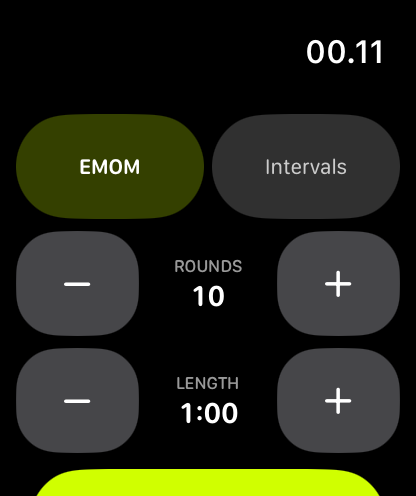
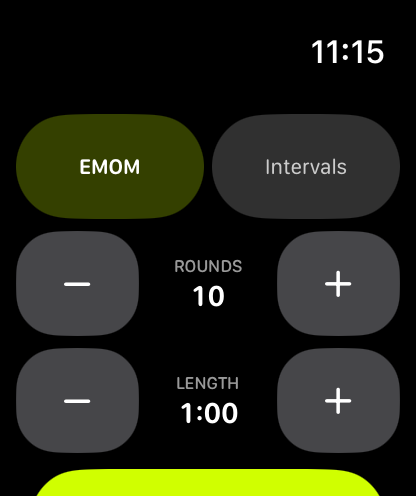
Bump to 1.7 (build 18) and finish the localized screenshot set
Danish and Spanish had iPhone screenshots only. The iOS app record also
covers iPad and Apple Watch, so a localized listing needed those two in
both languages as well. Mac and Apple TV are separate app records and
stay English.

Recapturing turned up a defect in the English set: the iPad status bar
showed "09.41 fre. 7. aug." on the en-US screenshot. The status bar
renders its date from the simulator's system locale, which was Danish,
and launching the app with -AppleLanguages does not change that. All
three iPad shots are recaptured with the system locale set to match.
The English Watch shot had the same problem in its clock format and is
recaptured too; simctl status_bar is unsupported on watchOS, so the
Watch clocks differ between languages and cannot be pinned.

Changed region(s): [[0.7188, 0.0605, 0.9375, 0.1512]]

diff --git a/docs/APP_STORE_CONNECT.md b/docs/APP_STORE_CONNECT.md
@@ -155,11 +155,15 @@ Current sizes (Apple retired the old 5.5"/6.5" slots as the primary requirement)
 | Apple TV | 1920 × 1080 (or 3840 × 2160) | Yes for tvOS app |
 | Apple Watch | 416 × 496 (Series 10/11 46mm) | Optional |
 
-The rendered set lives in [`appstore/1.6.1/`](../appstore/1.6.1/) (versioned per release; regenerate via `scripts/compose_screenshots.py`, see [`appstore/README.md`](../appstore/README.md)).
+The rendered set lives in [`appstore/1.7/`](../appstore/1.7/), versioned per release and driven by [`appstore/manifest.json`](../appstore/manifest.json). Regenerate with the portfolio compositor in the private strategy repo (`tools/appstore_screenshots.py batch appstore/manifest.json`); see [`appstore/README.md`](../appstore/README.md). Older sets in [`appstore/1.6.1/`](../appstore/1.6.1/) and [`appstore/1.2/`](../appstore/1.2/) are kept for reference.
 
 **Apple TV got three screenshots in 1.6.1** (was one), because the device x territory cross-tab showed Apple TV is the #2 platform at 32% of product page views: running timer (hero), the three-mode setup, and For Time with the time cap. The tvOS canvas uses a larger screen scale (0.82) so the timer stays readable at thumbnail size.
 
-**Current set (`appstore/1.6.1/`):** a captioned, brand-styled set was generated for all five platforms (dark #0d0d0d ground, lime #D0FF00 accent, screen shown below a short headline). iPhone: running timer + the three-mode setup. iPad/Mac/Apple TV: setup and running. Apple Watch: raw captures of the new 1.6 standalone config (screen too small for a caption band). Regenerate with the simulator-capture + Pillow compositor workflow; keep the story on the wedge (Apple Watch, multi-device, pay-once) per the private strategy repo.
+**Current set (`appstore/1.7/`), 21 images.** Dark #0d0d0d ground, lime #D0FF00 accent, the app screen below a short headline. English covers all five platforms: four iPhone (running timer, three-mode setup, Intervals, For Time), one iPad, one Mac, two Apple TV, one Apple Watch. Danish (`da/`) and Spanish (`es/`) repeat the four iPhone shots plus iPad and Watch, which is what the iOS app record needs for a localized listing. Mac and Apple TV are separate app records and stay English only.
+
+Capture rule learned in 1.7: set the simulator's **system** language, not just the app's, before capturing iPad. The iPad status bar renders its date from the system locale, so an app launched with `-AppleLanguages` still showed a Danish date on the English screenshot. `xcrun simctl status_bar` fixes the time but not the date, and it is unsupported on watchOS, so Watch captures show whatever the clock says.
+
+Apple Watch shots stay uncaptioned; the screen is too small for a caption band.
 
 Content to feature, in order: (1) timer running (hero), (2) mode setup showing EMOM / Intervals / For Time, (3) the Apple Watch / multi-device angle.
 

diff --git a/CHANGELOG.md b/CHANGELOG.md
@@ -2,7 +2,7 @@
 
 All notable user-facing changes to WODrounds. Newest first.
 
-## Unreleased
+## 1.7 (build 18)
 
 - **Added:** the app is now available in **Danish and Spanish (es-MX)**, alongside English. Every screen, button and help text is translated on iPhone, iPad, Mac, Apple TV and Apple Watch.
 - **Changed:** new voice recordings for the spoken cues (get ready, rounds remaining, completion). The audio stays English in every language, because these are recorded voice files.
